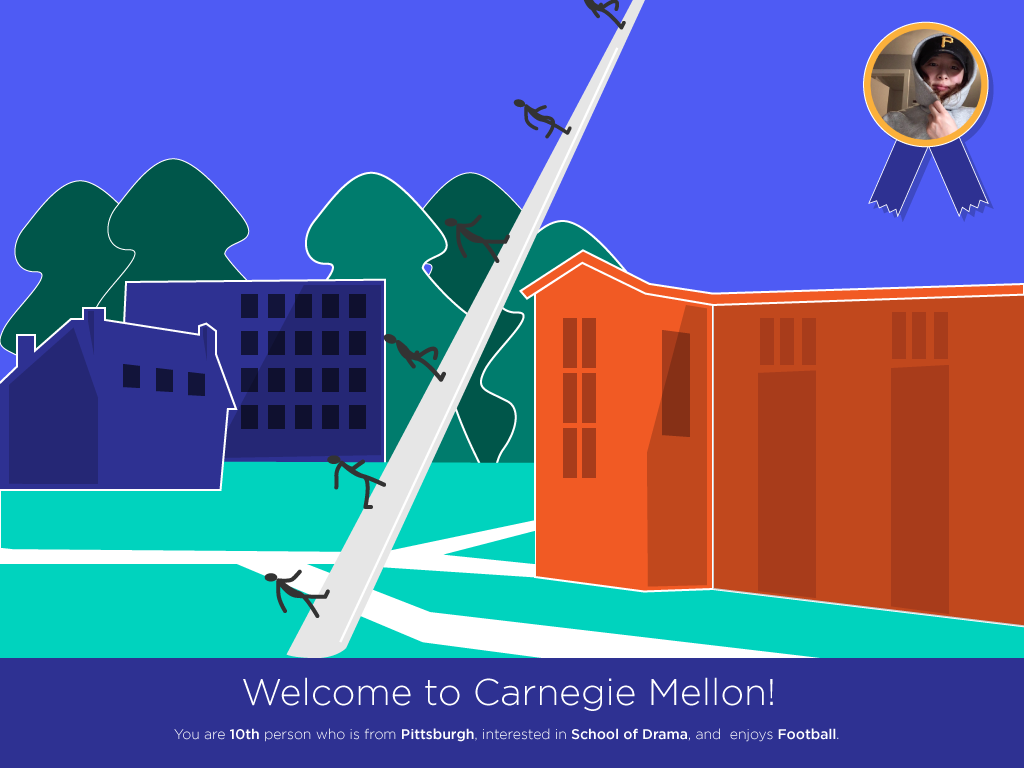
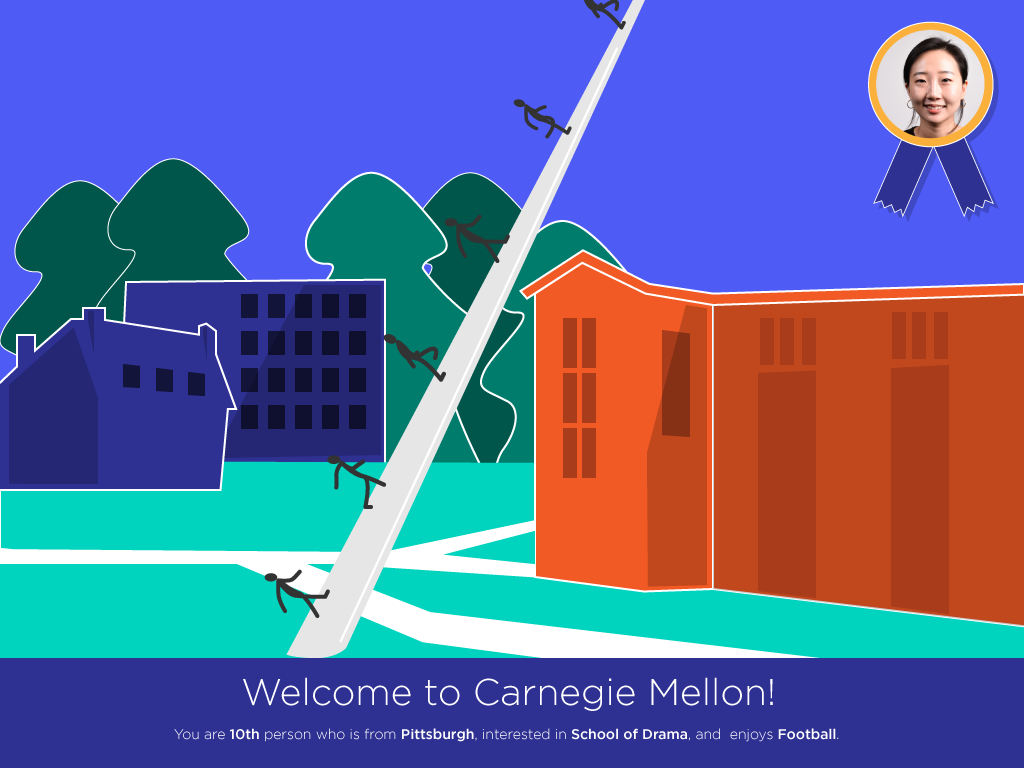
ionic share css change + welcome page description

Changed region(s): [[0.8438, 0.0312, 1.0, 0.2812]]

diff --git a/ionic/src/pages/share/share.html b/ionic/src/pages/share/share.html
@@ -20,10 +20,12 @@
 
 <ion-content padding>
 	<div class="content-div">
+		<p>Choose the backdrop by sliding it</p>
 		<ion-slides pager>
 			<ion-slide>
 				<div id="capture">
-				<img  class="my-picture" style="height: 92px;" [src]="postProvider.base64Image"
+				<img  class="my-picture" style="-webkit-clip-path: circle(40px at center); 
+				width: 11%; overflow: hidden;" [src]="postProvider.base64Image"
             *ngIf="postProvider.base64Image">
 				<img class="my-backdrop" src="../assets/imgs/backdrop2.png">
 				</div>
@@ -31,14 +33,16 @@
 			</ion-slide>
 
 			<ion-slide>
-				<img class="my-picture" style="height: 92px;" src="../assets/imgs/pic.png">
+				<img class="my-picture" style="-webkit-clip-path: circle(40px at center); 
+				width: 11%; overflow: hidden;" [src]="postProvider.base64Image"
+            *ngIf="postProvider.base64Image">
 				<img class="my-backdrop" src="../assets/imgs/backdrop3.png">
 				<p></p>
 			</ion-slide>
 
 		</ion-slides>
 
-		<p>Please submit your email for share</p>
+		<p>Please enter your email address to share your picture</p>
 		<form #loginForm="ngForm">
 		<ion-list>
 		<ion-item>

diff --git a/ionic/src/pages/welcome/welcome.html b/ionic/src/pages/welcome/welcome.html
@@ -19,6 +19,7 @@
 <ion-content padding>
   <div id="title-div" class="content-div"> <!-- home -->
 		<h1>Picture Yourself</h1>
+    <p>Picture yourself is <i>interactive selfie installation</i> . You may take a selfie with this device and share it with CMU community.</p>
 		<button (click)="introToTerms()" class="ui-button" id="start-button">Tap to Start</button>
 	</div>
 </ion-content>

diff --git a/ionic/src/app/app.scss b/ionic/src/app/app.scss
@@ -107,6 +107,12 @@ body {
 		
 		display: block;
 		margin-top:40%;
+		margin-left: 80px;
+		margin-right: 80px;
+	}
+
+	#title-div p {
+		font-size: 1.3em;
 	}
 
 	#title-div h1 {
@@ -179,11 +185,13 @@ body {
 	}
 
 	
+	
 	.my-picture {
 		position: absolute;
-		right:27px;
-		top: 20px;
+		right:3.6%;
+		top: 1.2%;
 		z-index: 100;
+		
 	}
 
 	
